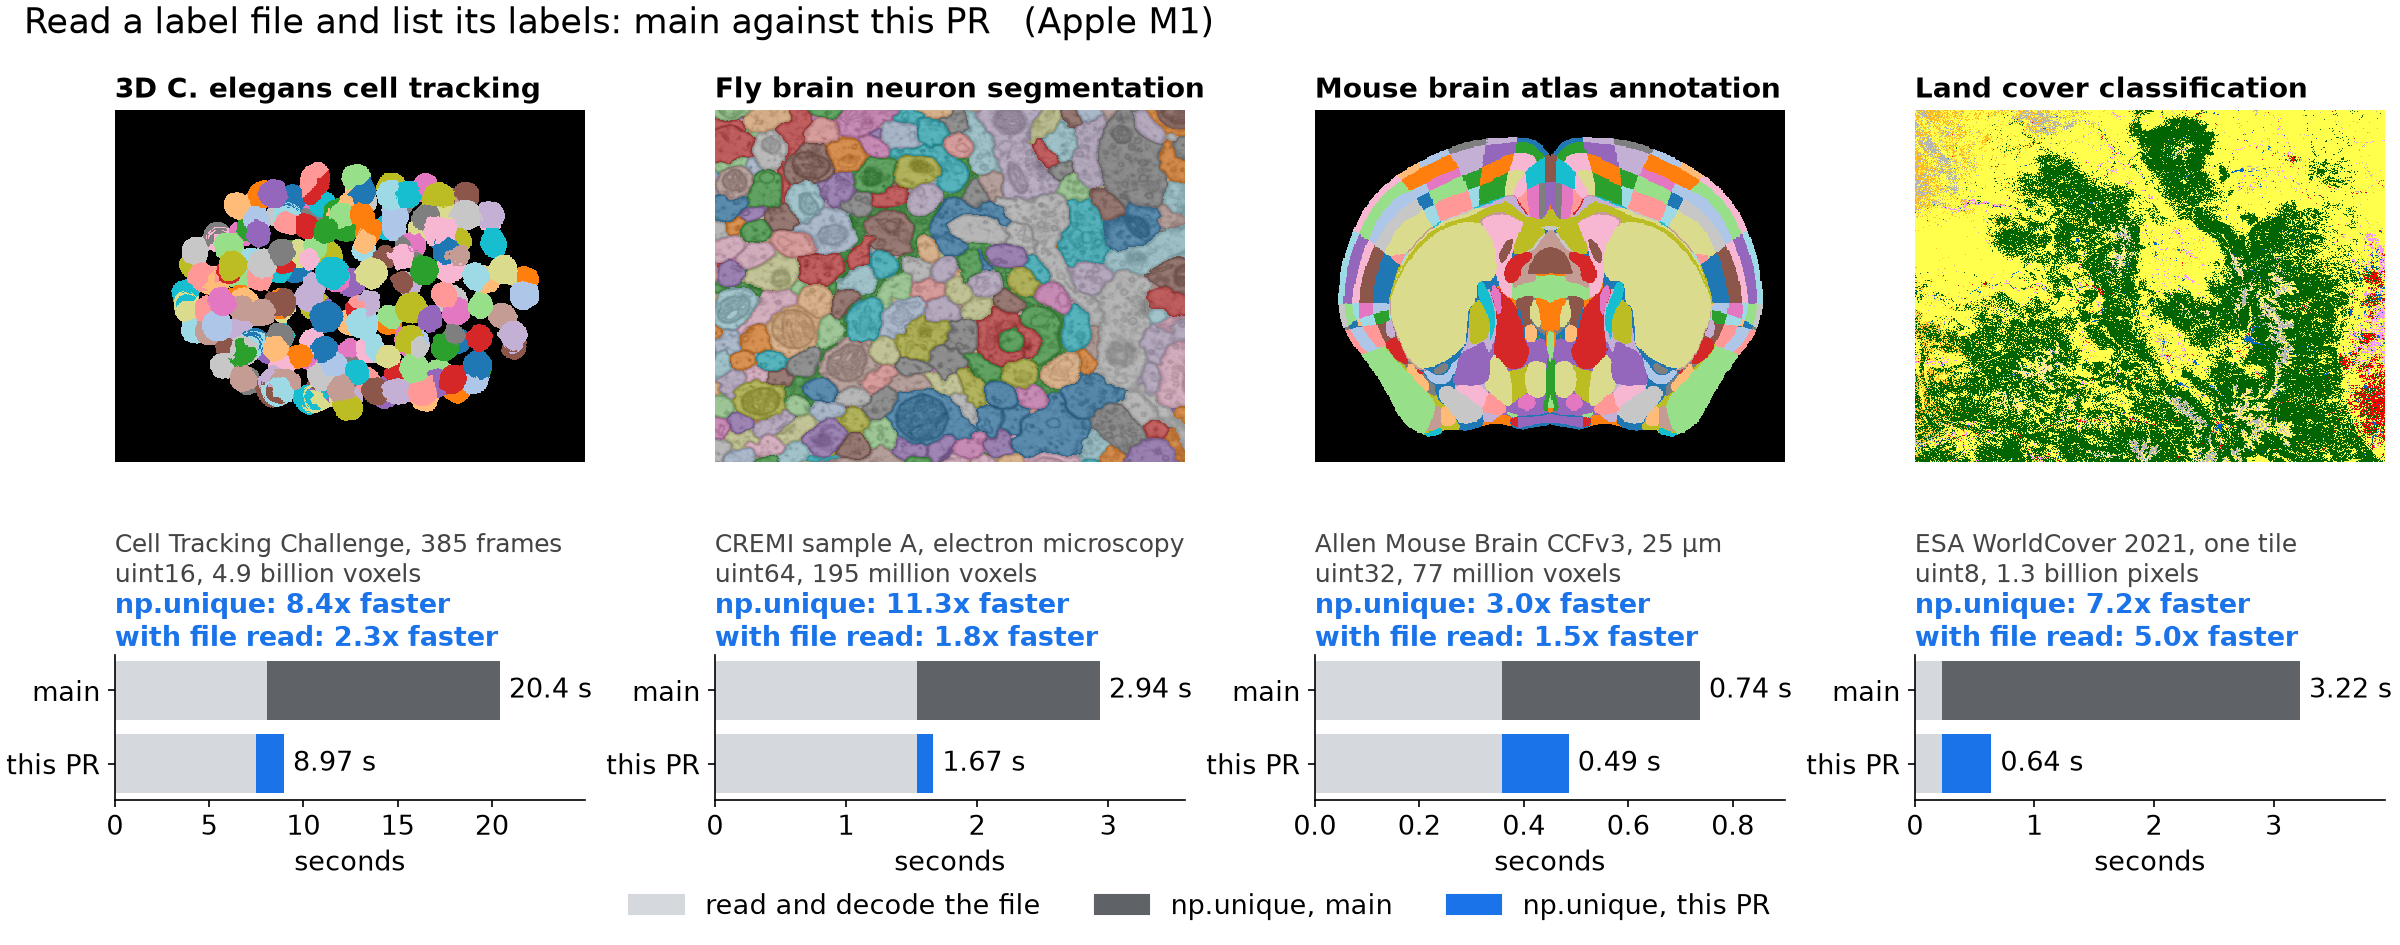
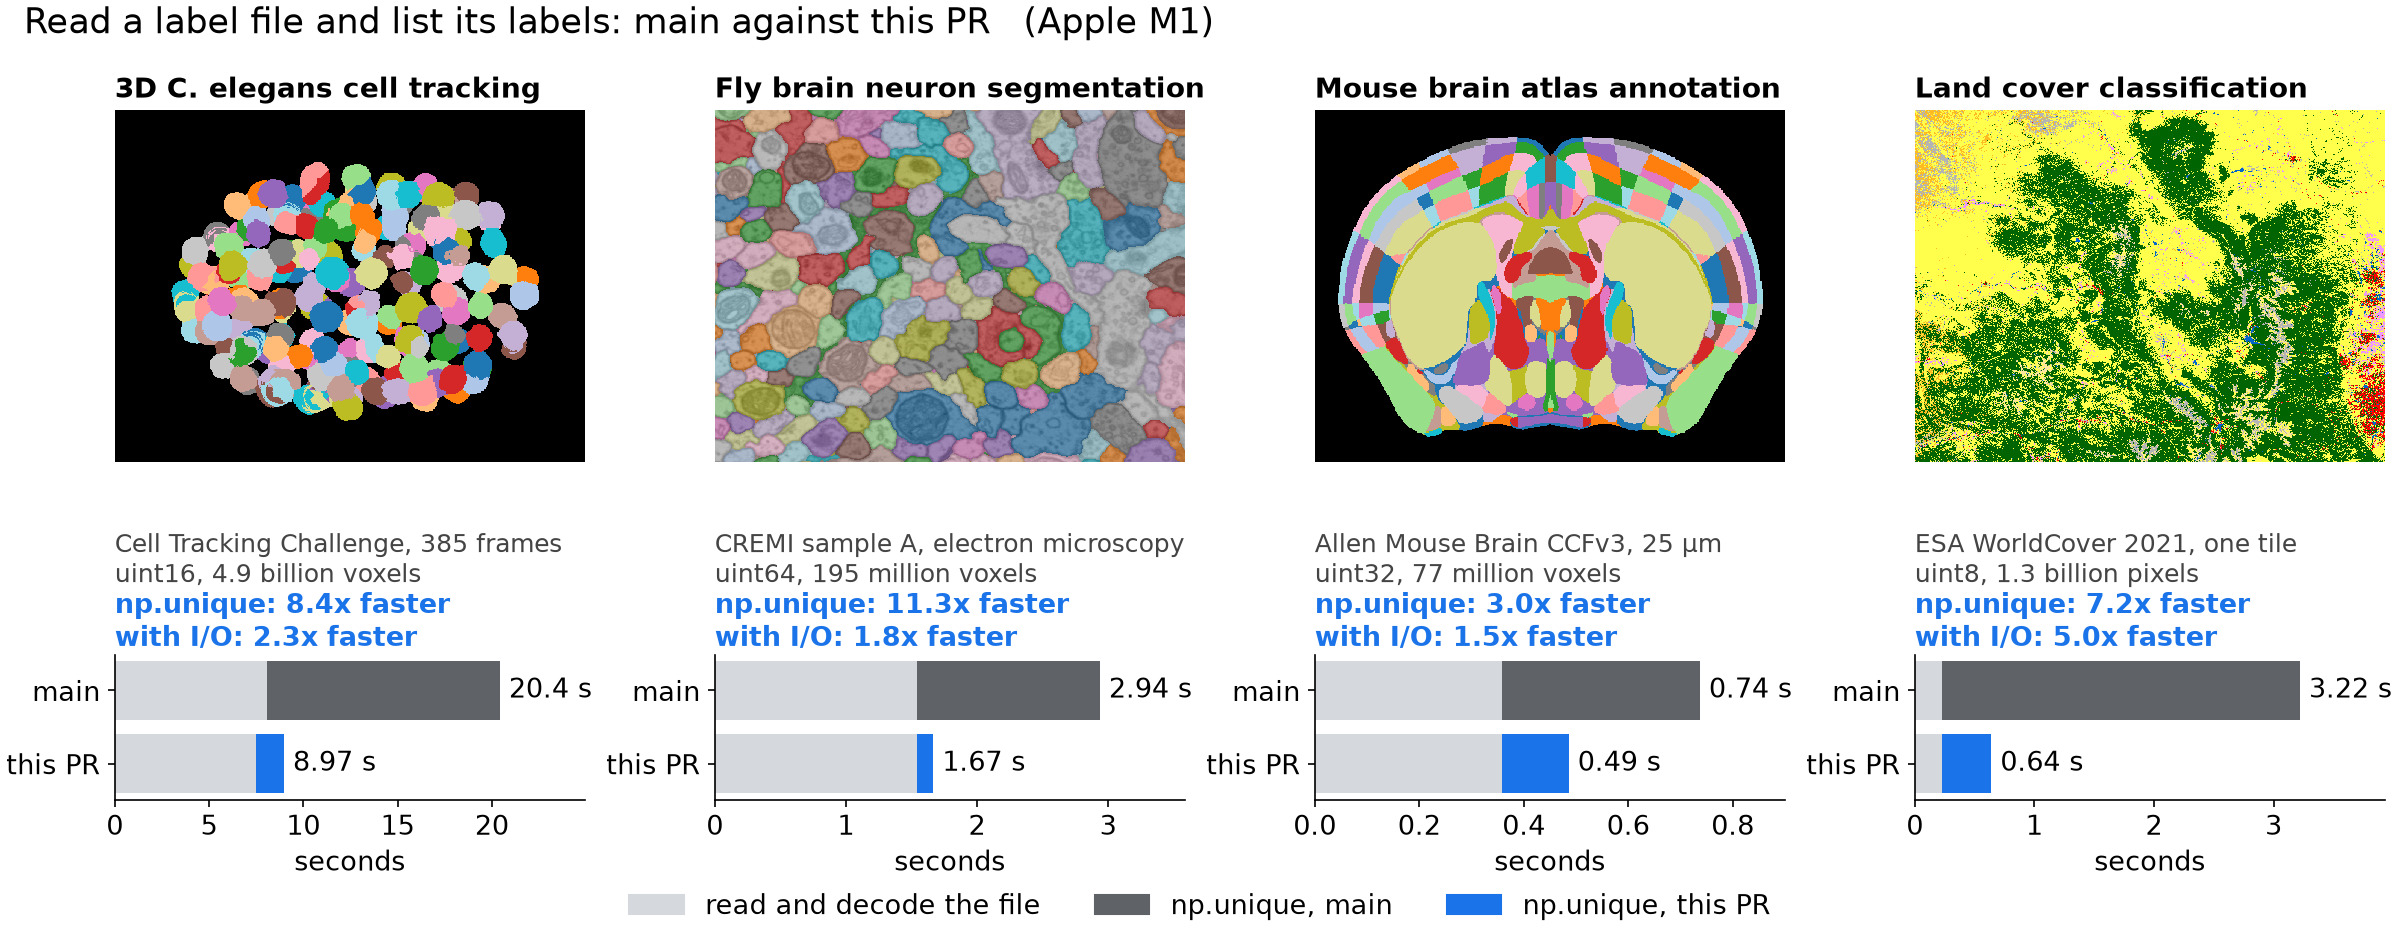
Label the overall speedup as with I/O

diff --git a/summary_plot.py b/summary_plot.py
@@ -169,7 +169,7 @@ for column, (key, workflow) in enumerate(WORKFLOWS.items()):
     faster = seconds["main"]["unique"] / seconds["this PR"]["unique"]
     bottom.set_xlabel("seconds")
     bottom.set_title(workflow["data"] + "\n\n", loc="left", fontsize=12, color="#444444")
-    bottom.text(0, 1.06, f"np.unique: {faster:.1f}x faster\nwith file read: {total['main'] / total['this PR']:.1f}x faster",
+    bottom.text(0, 1.06, f"np.unique: {faster:.1f}x faster\nwith I/O: {total['main'] / total['this PR']:.1f}x faster",
                 transform=bottom.transAxes, fontsize=13, fontweight="bold", color=COLORS["this PR"])
     for i, n in enumerate(names):
         bottom.text(total[n], i, f" {total[n]:.2f} s" if total[n] < 10 else f" {total[n]:.1f} s", va="center")
